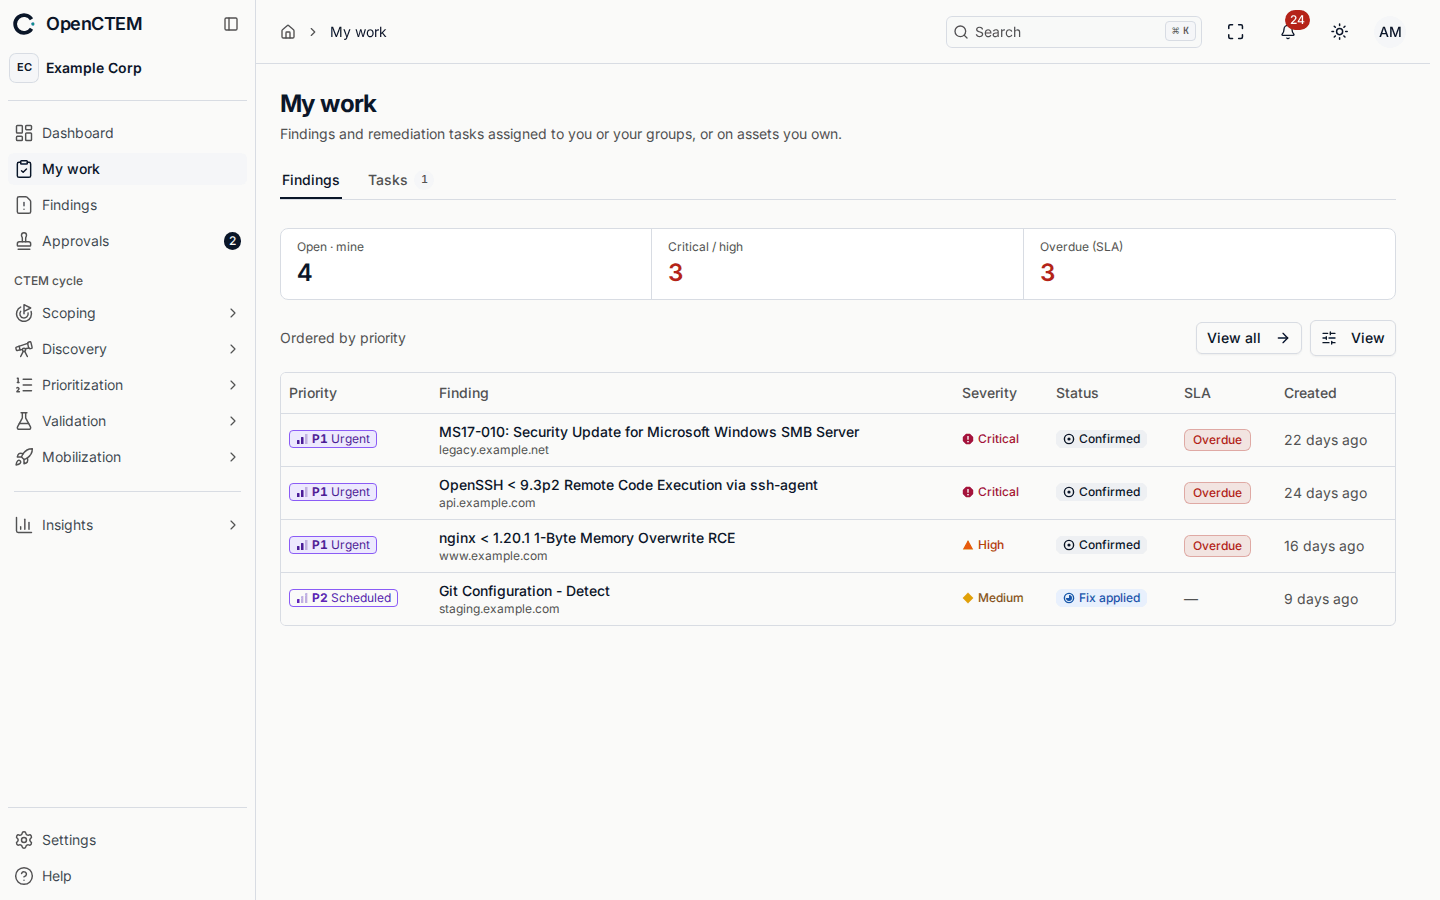
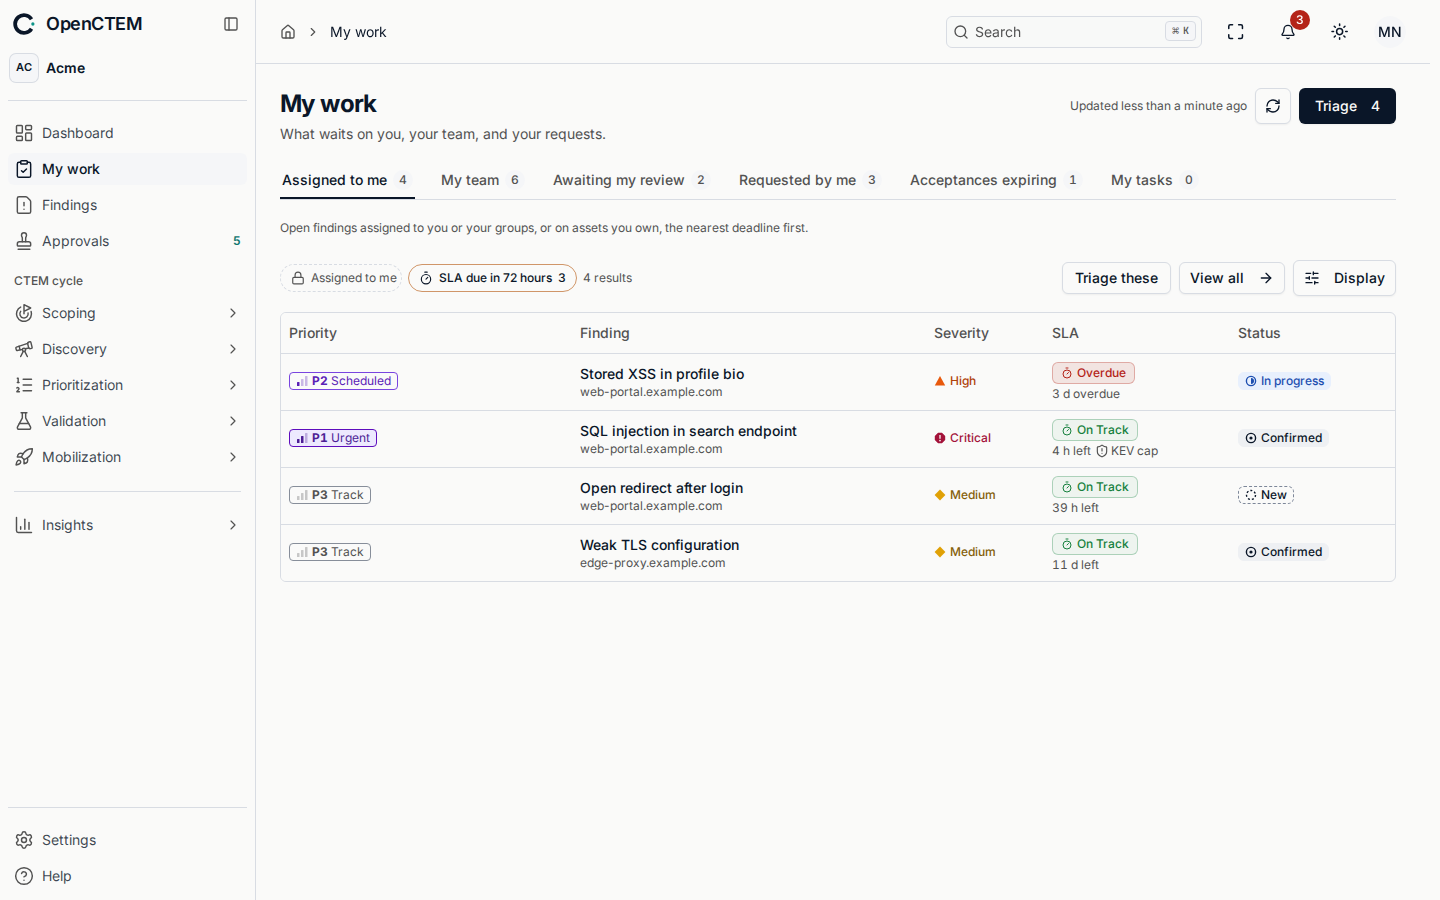
docs(user-guide): My Work persona queues

diff --git a/user-guide/01-getting-started.md b/user-guide/01-getting-started.md
@@ -414,22 +414,37 @@ metric catalog at `GET /api/v1/me/dashboards/widget-catalog`. Details are in
 
 ## My work
 
-**My Work** (`/my-work`) is your personal queue: findings assigned to you or on
-assets you own, and remediation tasks assigned to you or your teams. The tabs
-**Findings** and **Tasks** switch between them (**Tasks** appears when you can
-read remediation).
+**My Work** (`/my-work`) is your personal start page: what waits on you, your
+team, and your requests. Each tab is one queue with its count, and the count is
+always the total of the list it opens.
 
-![The My work page listing the findings assigned to the signed-in user]({{ site.baseurl }}/assets/images/user-guide/my-work.png)
-*Figure: My work: the findings assigned to you or on assets you own.*
+![The My work page with the Assigned to me queue open]({{ site.baseurl }}/assets/images/user-guide/my-work.png)
+*Figure: My work: your open findings, the nearest deadline first.*
 
-- The metric strip shows **Open · assigned to me**, **Critical / high** and
-  **Overdue (SLA)**; each opens the findings list with that filter.
-- The table lists the top 15 by priority (Finding, Severity, Status, SLA,
-  Created). Click a row to open the finding, or **View all** for the full list.
-- When nothing is assigned to you, the page says **You're all caught up**.
-- **Tasks** lists your open remediation tasks, earliest deadline first, with
-  **View all tasks** for the full list
-  ([Mobilization](08-mobilization.md)); with none it says **No open tasks**.
+- **Assigned to me**: open findings assigned to you or your groups, or on
+  assets you own, the nearest SLA deadline first. **SLA due in 72 hours**
+  narrows the list to the ones due soon (overdue included).
+- **My team**: open findings held by the people who share a group with you, or
+  by the group.
+- **Awaiting my review** (when you can approve): false-positive and
+  risk-acceptance requests you may decide. Each row shows who asked and why,
+  what changed since the request (for example **now in CISA KEV**), and the
+  facts to weigh. **Approve** asks you to confirm your sign-in; **Reject** asks
+  for a reason. You never see your own requests here: another person decides
+  them. With a row selected, `j` and `k` move, Enter opens the finding, `a`
+  approves and `r` rejects.
+- **Requested by me**: your requests waiting for a decision. **Remind
+  approvers** (once an hour) or **Withdraw**.
+- **Acceptances expiring**: accepted risks on your findings that end within
+  30 days, when the finding reopens.
+- **My tasks** (when you can read remediation): your open remediation tasks,
+  earliest deadline first ([Mobilization](08-mobilization.md)).
+- The SLA column shows the time left or past due (in hours under two days) and
+  **KEV cap** when the known-exploited rule set the deadline.
+- **View all** opens the same list on **Findings**; **Triage these** and the
+  header's **Triage** button open triage mode.
+- An empty queue suggests the next step, such as **Next: triage 4 new
+  findings**.
 
 ## Notifications
 
